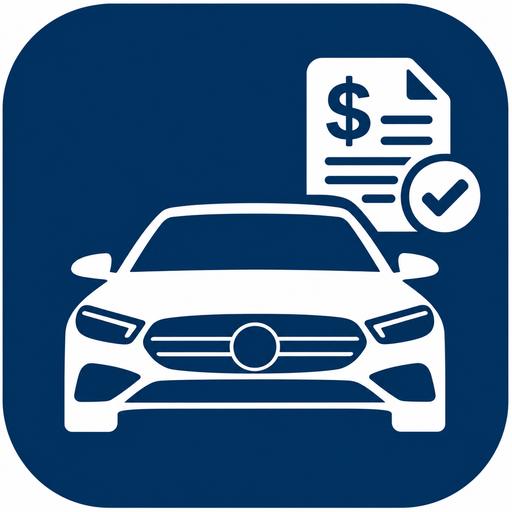
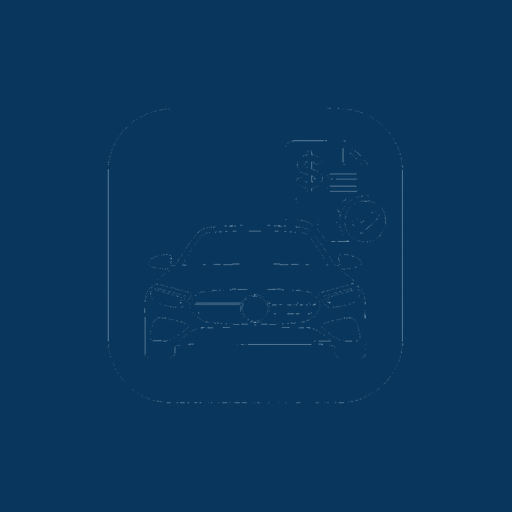
Add files via upload

Changed region(s): [[0.125, 0.0938, 0.9375, 0.8438], [0.0, 0.0, 1.0, 1.0]]

diff --git a/index.html b/index.html
@@ -872,9 +872,9 @@ button,input,select{font:inherit;-webkit-tap-highlight-color:transparent}
     ctx.fill();
 
     // App icon
-    const icon=await loadCanvasImage('./icon-192.png');
+    const icon=await loadCanvasImage('./share-logo.png');
     if(icon){
-      ctx.drawImage(icon,45,42,110,110);
+      ctx.drawImage(icon,52,49,96,96);
     }
 
     // vertical divider

diff --git a/sw.js b/sw.js
@@ -1,11 +1,12 @@
-const CACHE='full-settlement-v16';
+const CACHE='full-settlement-v18';
 const ASSETS=[
   './',
   './index.html',
   './manifest.webmanifest',
   './icon-192.png',
   './icon-512.png',
-  './full-settlement-logo.png'
+  './full-settlement-logo.png',
+  './share-logo.png'
 ];
 
 self.addEventListener('install',event=>{
